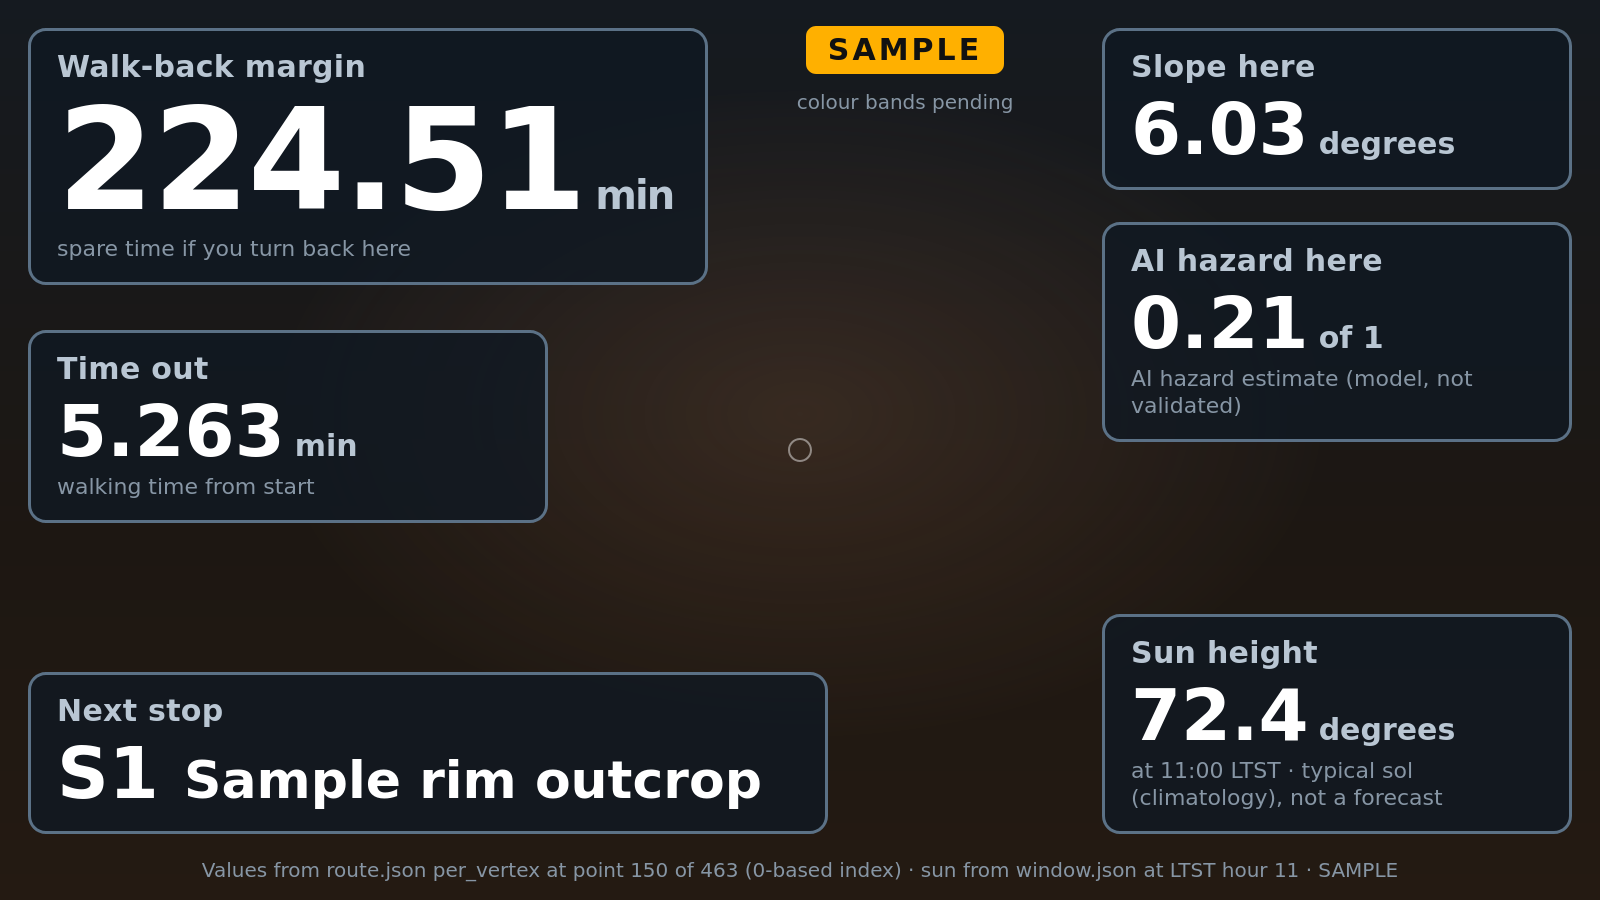
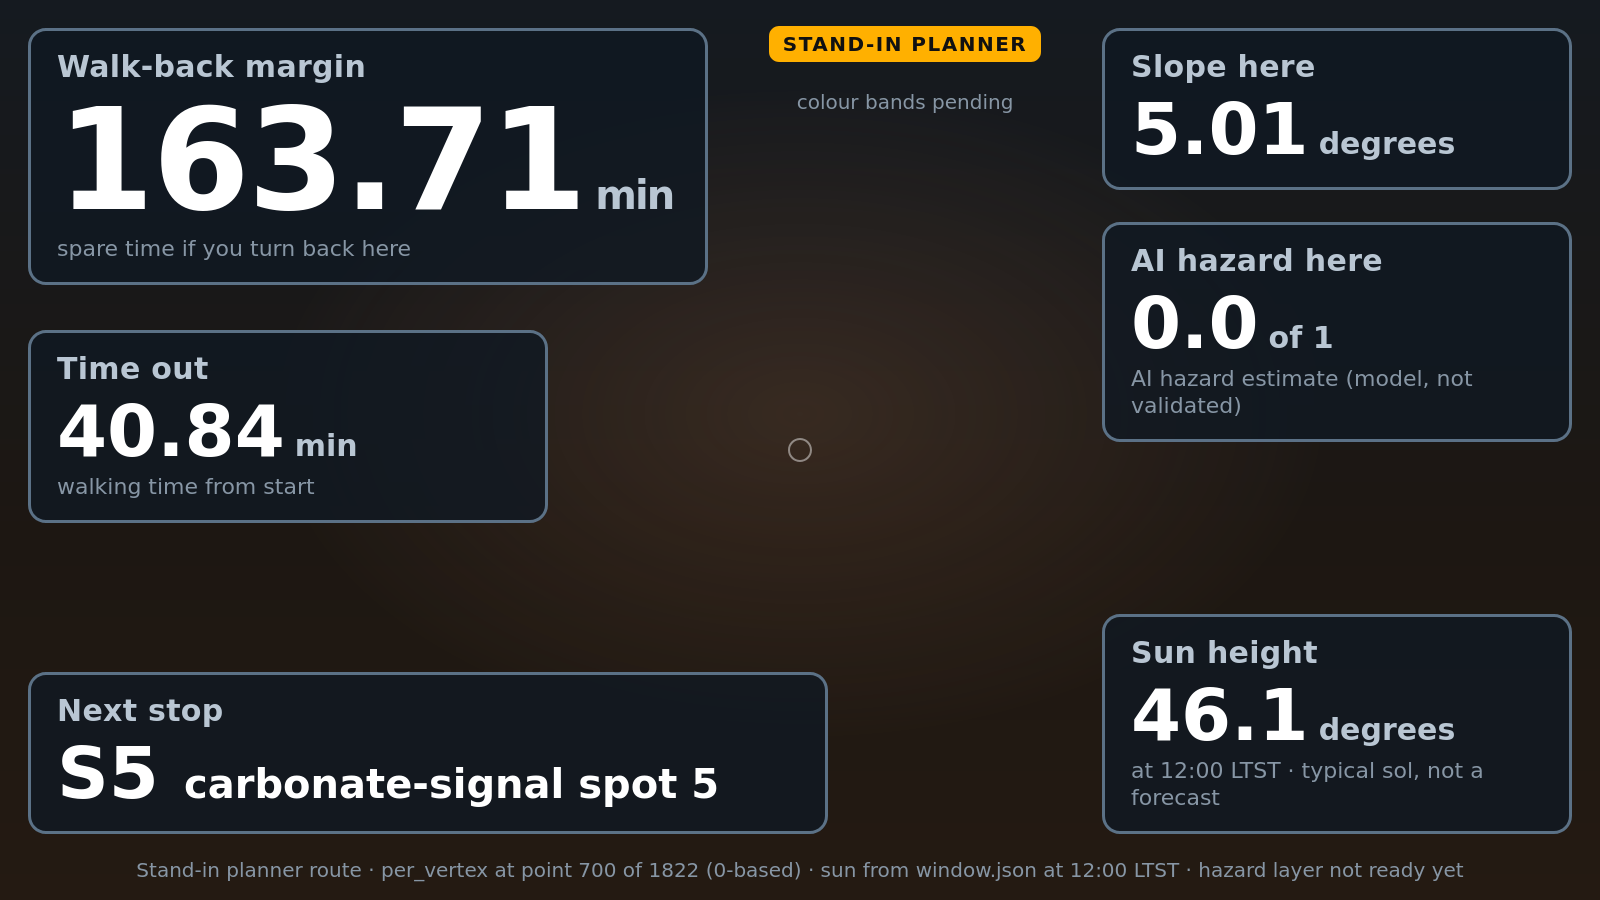
[P3] Slope limit from cost-model.md, visor v2 with real values, final screenshots
- Slope limit (docs/cost-model.md, 25° assumption) shown next to steepest slope, slope here, heads-up strip and in the slope legend; not shown on sample data
- cost-model.js parser + tests (42 passing); copy-data copies docs/cost-model.md
- Visor design v2: real stand-in planner values at point 700 of 1822, sun at 12:00 LTST; README updated
- display/screens/final/: 9 screenshots (welcome, route, walk-along, stop cards, proof, elevation, conditions, slope layer, phone) + captions.md

diff --git a/display/visor/visor-mock.html b/display/visor/visor-mock.html
@@ -1,25 +1,23 @@
 <!-- Written with AI assistance (Claude). -->
 <!--
-  Visor design v1 (static mock, 1600x900) for the Quest 3 headset. Ramish rebuilds it in xr/.
-  ALL VALUES ARE SAMPLE, copied verbatim from samples/out/ at ONE route point:
-    route point = index 150 (0-based) of 463 points in samples/out/route.json geometry.coordinates
-    - Walk-back margin  224.51  <- route.json properties.per_vertex.margin_min[150]
-    - Time out            5.263 <- route.json properties.per_vertex.t_min[150]
-    - Slope here          6.03  <- route.json properties.per_vertex.slope_deg[150]
-    - AI hazard here      0.21  <- route.json properties.per_vertex.hazard[150]
-    - Next stop   S1 "Sample rim outcrop" <- route.json properties.stops[0].id / .name
-        (S1 chosen because its x,y = (320,-232) equals geometry.coordinates[198], i.e. later on the
-         route than point 150; how the headset decides "next" is an open question, see README.md)
-    - Sun elevation      72.4   <- window.json sun_elev_deg[11] (ltst_hours[11] = 11)
-        (LTST hour 11 is an assumed mock time inside window.json eva_window 10.0-15.0)
-    - Route length 1063.2 m is NOT shown (not a visor field).
+  Visor design v2 (static mock, 1600x900) for the Quest 3 headset. Ramish rebuilds it in xr/.
+  Values are REAL output of the stand-in planner (standin-basic-v1), copied verbatim at ONE route point:
+    route point = index 700 (0-based) of 1822 points in pipeline/fallback/route.json geometry.coordinates
+    - Walk-back margin  163.71  <- route.json properties.per_vertex.margin_min[700]
+    - Time out           40.84  <- route.json properties.per_vertex.t_min[700]
+    - Slope here          5.01  <- route.json properties.per_vertex.slope_deg[700]
+    - AI hazard here      0.0   <- route.json properties.per_vertex.hazard[700] (stand-in: hazard weight 0, AI layer not ready)
+    - Next stop   S5 "carbonate-signal spot 5" <- route.json properties.stops (S5 is at point 934, the first stop after 700)
+    - Sun elevation      46.1   <- pipeline/fallback/window.json sun_elev_deg at ltst_hours = 12
+        (12:00 LTST is an assumed demo time inside window.json eva_window 11.0-15.0)
+    - Route length (properties.length_m) is NOT shown (not a visor field).
   No colour thresholds exist yet (docs/cost-model.md is empty) -> values are neutral white.
 -->
 <!doctype html>
 <html lang="en">
 <head>
 <meta charset="utf-8">
-<title>Visor design v1</title>
+<title>Visor design v2</title>
 <style>
   :root {
     --bg: #0b0f14;
@@ -66,8 +64,8 @@
 
   .badge {
     position: absolute; left: 905px; top: 26px; transform: translateX(-50%);
-    background: var(--badge); color: #111; font-weight: 800; font-size: 30px;
-    padding: 6px 22px; border-radius: 10px; letter-spacing: 3px;
+    background: var(--badge); color: #111; font-weight: 800; font-size: 20px;
+    padding: 6px 14px; border-radius: 10px; letter-spacing: 1.5px; white-space: nowrap;
   }
   .legend {
     position: absolute; left: 905px; top: 90px; transform: translateX(-50%);
@@ -84,50 +82,50 @@
 </style>
 </head>
 <body>
-  <div class="badge">SAMPLE</div>
+  <div class="badge">STAND-IN PLANNER</div>
   <div class="legend">colour bands pending</div>
   <div class="reticle"></div>
 
-  <!-- per_vertex.margin_min[150] = 224.51 -->
+  <!-- per_vertex.margin_min[700] = 163.71 -->
   <div class="panel" id="margin">
     <div class="label">Walk-back margin</div>
-    <div class="value big">224.51<span class="unit">min</span></div>
+    <div class="value big">163.71<span class="unit">min</span></div>
     <div class="sub">spare time if you turn back here</div>
   </div>
 
-  <!-- per_vertex.t_min[150] = 5.263 -->
+  <!-- per_vertex.t_min[700] = 40.84 -->
   <div class="panel" id="timeout">
     <div class="label">Time out</div>
-    <div class="value">5.263<span class="unit">min</span></div>
+    <div class="value">40.84<span class="unit">min</span></div>
     <div class="sub">walking time from start</div>
   </div>
 
-  <!-- per_vertex.slope_deg[150] = 6.03 -->
+  <!-- per_vertex.slope_deg[700] = 5.01 -->
   <div class="panel" id="slope">
     <div class="label">Slope here</div>
-    <div class="value">6.03<span class="unit">degrees</span></div>
+    <div class="value">5.01<span class="unit">degrees</span></div>
   </div>
 
-  <!-- per_vertex.hazard[150] = 0.21 -->
+  <!-- per_vertex.hazard[700] = 0.0 -->
   <div class="panel" id="hazard">
     <div class="label">AI hazard here</div>
-    <div class="value">0.21<span class="unit">of 1</span></div>
+    <div class="value">0.0<span class="unit">of 1</span></div>
     <div class="sub">AI hazard estimate (model, not validated)</div>
   </div>
 
-  <!-- properties.stops[0].id = "S1", .name = "Sample rim outcrop" -->
+  <!-- properties.stops: S5 "carbonate-signal spot 5" (route point 934) -->
   <div class="panel" id="stop">
     <div class="label">Next stop</div>
-    <div class="value">S1 <span style="font-size:52px">Sample rim outcrop</span></div>
+    <div class="value">S5 <span style="font-size:40px">carbonate-signal spot 5</span></div>
   </div>
 
-  <!-- window.json sun_elev_deg[11] = 72.4 (ltst_hours[11] = 11) -->
+  <!-- window.json sun_elev_deg at ltst 12 = 46.1 -->
   <div class="panel" id="sun">
     <div class="label">Sun height</div>
-    <div class="value">72.4<span class="unit">degrees</span></div>
-    <div class="sub">at 11:00 LTST · typical sol (climatology), not a forecast</div>
+    <div class="value">46.1<span class="unit">degrees</span></div>
+    <div class="sub">at 12:00 LTST · typical sol, not a forecast</div>
   </div>
 
-  <div class="footer">Values from route.json per_vertex at point 150 of 463 (0-based index) · sun from window.json at LTST hour 11 · SAMPLE</div>
+  <div class="footer">Stand-in planner route · per_vertex at point 700 of 1822 (0-based) · sun from window.json at 12:00 LTST · hazard layer not ready yet</div>
 </body>
 </html>

diff --git a/display/src/sources.js b/display/src/sources.js
@@ -62,7 +62,7 @@ function hazardLegend(manifest, hazardMeta) {
  * Legend for one raster overlay. `manifest` null = the sample data set (samples/out has no manifest).
  * @returns {{title:string, gradientCss:string|null, minLabel:string|null, maxLabel:string|null, note:string}|null}
  */
-export function legendFor(layerId, manifest, hazardMeta) {
+export function legendFor(layerId, manifest, hazardMeta, { slopeLimit = null } = {}) {
   const sample = !manifest;
   const e = entry(manifest, layerId);
   const name = (fallback) => e?.name || fallback;
@@ -76,7 +76,8 @@ export function legendFor(layerId, manifest, hazardMeta) {
       const r = degRange(e?.colormap);
       if (!r) return { title: `${name("Slope")} (degrees)`, gradientCss: null, minLabel: null, maxLabel: null, note: "Colour scale: see source." };
       return { title: `${name("Slope")} (degrees)`, gradientCss: SLOPE_GYR, minLabel: `${r[0]}°`, maxLabel: `${r[1]}° or more`,
-        note: `Green = flatter, red = steeper. ${NO_CLASSES}` };
+        note: `Green = flatter, red = steeper. ${NO_CLASSES}` +
+          (slopeLimit ? ` Planner blocks ground steeper than ${slopeLimit.value}° (${slopeLimit.note}, docs/cost-model.md).` : "") };
     }
     case "rough": {
       if (sample) { // make_samples.py:49 save("rough", rough) -> grey, min..max
@@ -162,14 +163,14 @@ export function legendHtml(lg) {
  * Leaflet control (bottomright, above the attribution) with the legends of the raster overlays that are on.
  * overlays: { [displayName]: { id, layer } }. Hidden when none is on. Returns { destroy() }.
  */
-export function initLegendControl(map, { manifest = null, hazardMeta = null, overlays = {} } = {}) {
+export function initLegendControl(map, { manifest = null, hazardMeta = null, overlays = {}, slopeLimit = null } = {}) {
   if (!L || !map) return { destroy() {} };
-  const items = Object.values(overlays || {}).filter((o) => o && o.layer && legendFor(o.id, manifest, hazardMeta));
+  const items = Object.values(overlays || {}).filter((o) => o && o.layer && legendFor(o.id, manifest, hazardMeta, { slopeLimit }));
   let div = null;
   const update = () => {
     if (!div) return;
     const on = items.filter((o) => map.hasLayer(o.layer));
-    div.innerHTML = on.map((o) => legendHtml(legendFor(o.id, manifest, hazardMeta))).join("");
+    div.innerHTML = on.map((o) => legendHtml(legendFor(o.id, manifest, hazardMeta, { slopeLimit }))).join("");
     div.style.display = on.length ? "" : "none";
   };
   const Legend = L.Control.extend({

diff --git a/display/src/panel.js b/display/src/panel.js
@@ -11,6 +11,11 @@ const stat = (label, value, unit = "", cls = "") =>
 
 const $ = (id) => document.getElementById(id);
 
+// Slope limit from docs/cost-model.md ({ value, note }), shown beside slope values. Null = not published.
+let slopeLimit = null;
+export function setSlopeLimit(limit) { slopeLimit = limit; }
+const slopeUnit = () => (slopeLimit ? `° of ${slopeLimit.value}° limit` : "°");
+
 export function renderNoRoute(message) {
   $("route-summary").innerHTML = `<h2>Route</h2><p class="muted">${esc(message)}</p>`;
   $("readout").innerHTML = "";
@@ -28,7 +33,7 @@ export function renderRouteSummary(route, kind, maxMargin) {
       ${stat("Length", num(p.length_m, 0), " m")}
       ${stat("Walk out", num(p.time_out_min), " min")}
       ${stat("Walk back", num(p.time_back_min), " min")}
-      ${stat("Steepest slope", num(p.slope_max_deg), "°")}
+      ${stat("Steepest slope", num(p.slope_max_deg), slopeUnit())}
       ${stat("Stops", (p.stops || []).length)}
     </div>
     <div class="legend">
@@ -50,7 +55,7 @@ export function renderReadout(route, i, nextStop) {
     <div class="stats">
       ${stat("Walk-back margin here", num(pv.margin_min[i]), " min", "big")}
       ${stat("Time out", num(pv.t_min[i]), " min")}
-      ${stat("Slope here", num(pv.slope_deg[i]), "°")}
+      ${stat("Slope here", num(pv.slope_deg[i]), slopeUnit())}
       ${stat("AI hazard here", num(pv.hazard[i], 2), " of 1")}
       ${stat("Next stop", nextStop ? `${esc(nextStop.id)} <span class="stop-name">${esc(nextStop.name)}</span>` : "none left")}
     </div>
@@ -66,7 +71,7 @@ export function renderHud(route, i, nextStop) {
   el.innerHTML =
     h("Walk-back margin", num(pv.margin_min[i]), " min", "main") +
     h("Time out", num(pv.t_min[i]), " min") +
-    h("Slope", num(pv.slope_deg[i]), "°") +
+    h("Slope", num(pv.slope_deg[i]), slopeLimit ? `° / ${slopeLimit.value}°` : "°") +
     h("AI hazard", num(pv.hazard[i], 2), "") +
     h("Next stop", nextStop ? esc(nextStop.id) : "none", "", "stop");
   el.hidden = false;

diff --git a/display/src/main.js b/display/src/main.js
@@ -6,7 +6,8 @@ import "leaflet/dist/leaflet.css";
 import "./style.css";
 import { loadFrame } from "./frame.js";
 import { drawRoute, checkRoute, routeKind } from "./route.js";
-import { renderNoRoute, renderRouteSummary, renderReadout, renderWindow, renderHud, renderConditions } from "./panel.js";
+import { renderNoRoute, renderRouteSummary, renderReadout, renderWindow, renderHud, renderConditions, setSlopeLimit } from "./panel.js";
+import { costModelRow } from "./cost-model.js";
 import { renderStopCards, highlightStopCard, stopsFromCsv, parseCsv } from "./stop-cards.js";
 import stopPhotos from "./stop-photos.json";
 import "./stop-cards.css";
@@ -153,6 +154,9 @@ async function main() {
 
   const layersControl = L.control.layers(null, overlays, { collapsed: false, position: "topright" }).addTo(map);
   const routeSource = document.getElementById("route-source");
+  // Slope limit as published in docs/cost-model.md (shown only; the planner applies it, the display never does).
+  const slopeLimit = isSample ? null : costModelRow(await getText("cost-model.md"), "Slope limit");
+  setSlopeLimit(slopeLimit);
   const resultsMd = await getText("results.md");
   const wpText = await getText("rover_waypoints.csv");
   const waypoints = wpText ? parseWaypointsCsv(wpText) : null;
@@ -241,7 +245,7 @@ async function main() {
 
   // Legends for the raster overlays that are switched on, and the data sources list.
   const hazardMeta = await getJson("hazard.meta.json");
-  initLegendControl(map, { manifest: isSample ? null : manifest, hazardMeta, overlays: rasterInfo });
+  initLegendControl(map, { manifest: isSample ? null : manifest, hazardMeta, overlays: rasterInfo, slopeLimit });
   renderSources(document.getElementById("sources"), isSample ? null : manifest, {
     extra: isSample ? [] : [{ name: "Perseverance raw images (stop photos)", source: "NASA/JPL-Caltech",
       licence: "NASA media guidelines", citation: "https://mars.nasa.gov/mars2020/multimedia/raw-images/" }],

diff --git a/display/src/cost-model.js b/display/src/cost-model.js
@@ -1,0 +1,13 @@
+// Written with AI assistance (Claude).
+// Reads one row of docs/cost-model.md (a markdown table owned by the planner team). Values are shown, never used
+// to compute anything. Returns { value, unit, note } or null when the row or its value is missing.
+export function costModelRow(md, label) {
+  for (const line of String(md || "").split("\n")) {
+    const cells = line.split(/(?<!\\)\|/).map((c) => c.trim()); // ignore escaped \| inside a cell
+    if (cells.length < 5 || !cells[1].toLowerCase().startsWith(label.toLowerCase())) continue;
+    const value = Number(cells[2]);
+    if (!cells[2] || !Number.isFinite(value)) return null;
+    return { value, unit: cells[3], note: cells[4] || "source not given" };
+  }
+  return null;
+}

diff --git a/display/visor/README.md b/display/visor/README.md
@@ -1,7 +1,10 @@
-Visor design v1 · for the Quest 3 headset (Ramish builds) · values in the PNG are SAMPLE
+Visor design v2 · for the Quest 3 headset (Ramish builds) · values in the PNG are REAL stand-in planner output
 
 - Design: `visor-design.png` (1600×900), made from `visor-mock.html` (static, no JavaScript).
-- Sample point: `samples/out/route.json`, route point index 150 (0-based) of 463. Sun value: `samples/out/window.json` at LTST hour 11 (an assumed time inside `eva_window` 10.0–15.0).
+- Values are copied verbatim from the stand-in planner (`standin-basic-v1`) at route point index 700 (0-based) of 1822:
+  - `pipeline/fallback/route.json` `properties.per_vertex` at [700]: margin 163.71 min, time out 40.84 min, slope 5.01°, hazard 0.0 (AI hazard layer not ready, so the stand-in gives 0).
+  - Next stop S5 "carbonate-signal spot 5": first stop in `properties.stops` whose x,y matches a route vertex after 700 (vertex 934).
+  - Sun 46.1° = `pipeline/fallback/window.json` `sun_elev_deg` at `ltst_hours` = 12 (assumed demo hour inside `eva_window` 11.0–15.0).
 - The visor only shows numbers. It never works out time or margin itself; those come straight from `per_vertex`.
 
 ## Fields (6)
@@ -20,12 +23,12 @@ Visor design v1 · for the Quest 3 headset (Ramish builds) · values in the PNG 
 ## Candidates left out
 
 - **Time back** (`properties.time_back_min`): one number for the whole route, not for this point. Walk-back margin already answers "can I get back?" right here.
-- **Dust** (`conditions.csv` `dust_tau` at the LTST hour): climatology that barely changes during a walk (the sample is 0.5 every hour), and there is no dust limit yet. Better on the web map's planning view. It is not in `window.json`, so the headset would also need to load a second file.
+- **Dust** (`conditions.csv` `dust_tau` at the LTST hour): climatology that barely changes during a walk (barely changes hour to hour), and there is no dust limit yet. Better on the web map's planning view. It is not in `window.json`, so the headset would also need to load a second file.
 - **Temperature / pressure / radiation** (`window.json` / `conditions.csv`): climatology the suit handles, nothing the walker acts on. Keeps the visor at 6 fields.
 - **Route-wide totals** (`length_m`, `time_out_min`, `properties.margin_min`, `slope_max_deg`): these are for planning, not for "where am I now".
 
 ## Open questions for Ramish
 
 1. **Current route point `i`**: how does the headset choose it? Options: the route vertex nearest the walker's position on the hologram, or a simulated walk that steps through the vertices.
-2. **Next stop `k`**: how does the headset know which stop comes next? `route.json` can carry an optional `legs[]` (`from`/`to`), but the samples have no legs. In the mock, S1 was chosen because its x,y (320, −232) matches `geometry.coordinates[198]`, which comes after point 150 (S2 matches vertex 282). One option: the next stop is the first stop whose matching vertex is after `i`.
-3. **LTST hour `h`** for the sun lookup: does it come from a simulated clock that starts at `eva_window.start_ltst` and adds `t_min`, or from a fixed demo hour? The mock uses 11 as an assumed demo hour.
+2. **Next stop `k`**: how does the headset know which stop comes next? The fallback `route.json` has `properties.legs[]` (START→S1→S3→S5→S2→S4→END, each with `time_min`). In the mock, S5 was chosen because its x,y (569, −177) matches `geometry.coordinates[934]`, the first stop vertex after point 700 (stops match vertices 235, 578, 934, 1101, 1453); the legs agree: t_min 40.84 falls in leg S3→S5 (cumulative 34.6–52.3 min). One option: the next stop is the first stop whose matching vertex is after `i`.
+3. **LTST hour `h`** for the sun lookup: does it come from a simulated clock that starts at `eva_window.start_ltst` and adds `t_min`, or from a fixed demo hour? The mock uses 12 as an assumed demo hour.

diff --git a/display/screens/final/captions.md b/display/screens/final/captions.md
@@ -1,0 +1,13 @@
+# Web map screenshots: captions
+
+Real data set (terrain/out), stand-in route from the pipeline fallback. One line per screenshot.
+
+1. **01-welcome.png** — Welcome screen: what Marswalk is, with route length, stop count, walk-back margin and EVA window read from route.json and window.json (pipeline/fallback).
+2. **02-map-route.png** — Full map: HiRISE photo (USGS Mars 2020 TRN orthomosaic) with the route from the stand-in planner (pipeline/fallback/route.json), coloured by walk-back margin, its five science stops, Perseverance's real path, and the route summary in the side panel.
+3. **03-walk-along.png** — Walking the route: marker at point 701 of 1822 with distance rings, the heads-up strip under the map and the "At this point" readout; all values are per-point numbers from route.json.
+4. **04-stop-cards.png** — Science stop cards S1–S5 with real Perseverance Navcam photos (NASA/JPL-Caltech raw images, picked in src/stop-photos.json); stop names and times from route.json.
+5. **05-proof-view.png** — Proof view: planned route against Perseverance's real track (NASA/JPL-Caltech M20_traverse.json) and the results table from results.md (stand-in check made by pipeline/proof_basic.py).
+6. **06-elevation-profile.png** — Elevation along the route against walking time, with the stops marked; heights from route.json (USGS HiRISE elevation model).
+7. **07-conditions.png** — EVA time window and sun height from window.json (stand-in, pipeline/window_basic.py via pipeline/fallback), plus typical hourly conditions (temperature, pressure, dust, radiation) from science/conditions.csv; climatology, not a forecast.
+8. **08-slope-layer.png** — Slope overlay (from the 2 m USGS HiRISE elevation model, terrain/out/slope.png) with its legend and the slope limit from docs/cost-model.md.
+9. **09-phone.png** — The same map on a 390 × 844 phone screen.

diff --git a/AI_USAGE.md b/AI_USAGE.md
@@ -28,3 +28,4 @@ AI-generated images or video must carry a visible watermark and must not use or 
 | 2026-11-14 | Ramish | Claude (Anthropic) | Planner service hosting moved to Render: staging/push script, PLAN/README/SOURCES updates | pipeline/render/, PLAN.md, README.md, SOURCES.md |
 | 2026-11-14 | Ramish | Claude (Anthropic) | Headset page welcome screen, onboarding guide (page and in-headset), toolbar, toasts | xr/index.html, xr/src/ui.css, xr/src/onboarding.js, xr/src/main.js |
 | 2026-11-14 | Ramish | Claude (Anthropic) | Web map Marswalk look: welcome screen, guided tour, foldable panel, header (restyle only) | display/src/welcome.js, display/src/theme.css, display/src/main.js |
+| 2026-11-14 | Kashif | Claude (Anthropic, Claude Code) | Web map: slope limit from docs/cost-model.md shown beside slope values and in the legend; visor design v2 with real stand-in values; final screenshots + captions for the presenter | display/ |
